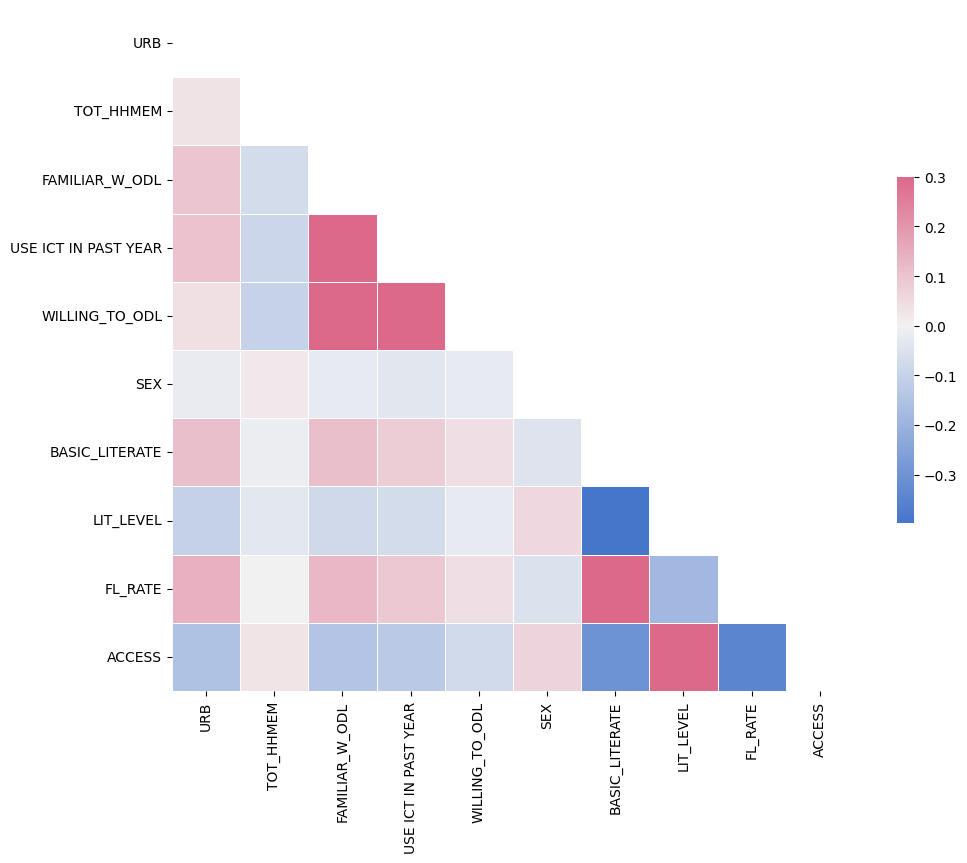
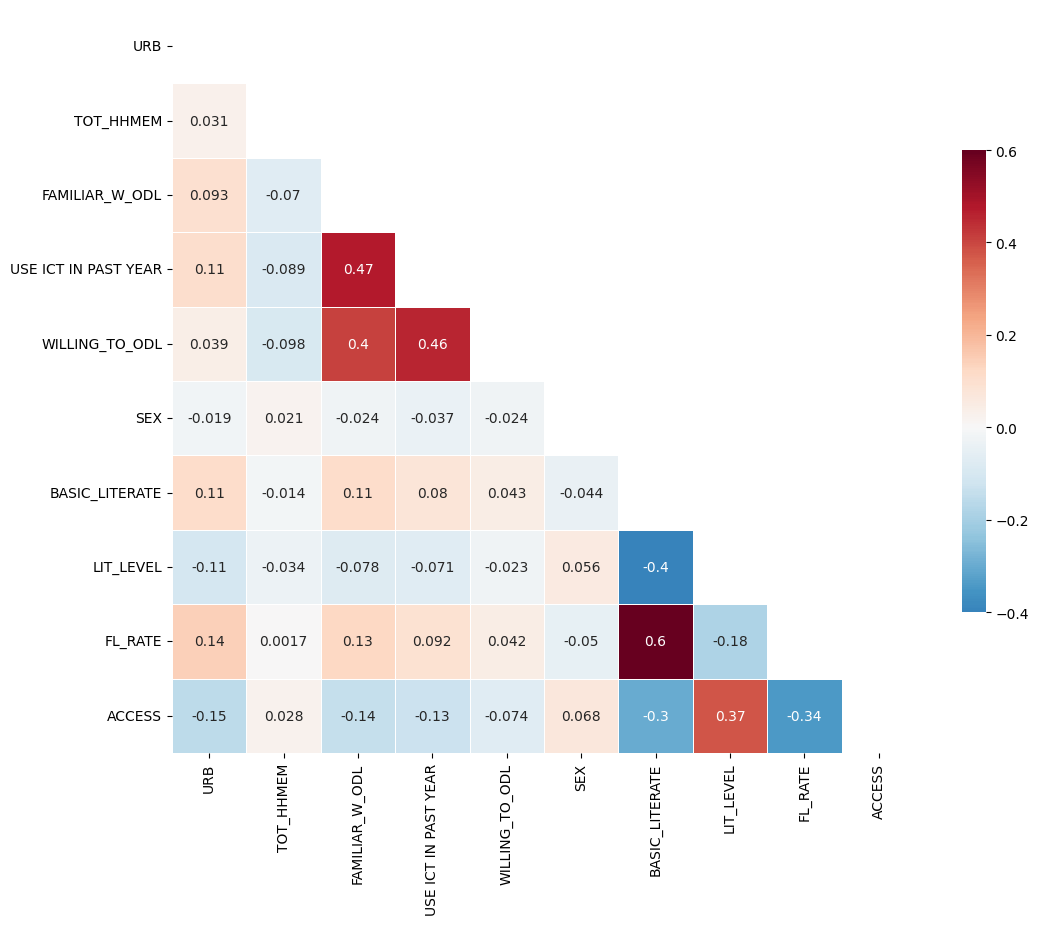
chore: change graphs for readability

diff --git a/education-app/src/app/section-5/data_analysis.tsx b/education-app/src/app/section-5/data_analysis.tsx
@@ -1,6 +1,6 @@
 import Image from "next/image";
-import Bar from './images/bar graph.jpg';
-import Choropleth from './images/choropleth.jpg';
+import Bar from './images/bar graph.png';
+import Choropleth from './images/choropleth.png';
 import Matrix from './images/correlation matrix.png';
 
 export default function DataAnalysis() {
@@ -16,10 +16,10 @@ export default function DataAnalysis() {
                 </p>
 
                 <div className="flex mt-2">
-                    <div className="relative flex-2" style={{ height: '350px', width: '60%', borderRadius: '15px', overflow: 'hidden', border: '2px solid black' }}>
+                    <div className="relative flex-2" style={{ height: '500px', width: '50%', borderRadius: '15px', overflow: 'hidden', border: '2px solid black' }}>
                         <Image src={Bar} alt="Bar Graph" layout="fill" objectFit="contain" />
                     </div>
-                    <div className="relative flex-1 ml-4" style={{ height: '350px', borderRadius: '15px', overflow: 'hidden', border: '2px solid black' }}>
+                    <div className="relative flex-1 ml-4" style={{ height: '500px', borderRadius: '15px', overflow: 'hidden', border: '2px solid black' }}>
                         <Image src={Choropleth} alt="Choropleth Map" layout="fill" objectFit="contain" />
                     </div>
                 </div>

diff --git a/education-app/src/app/section-1/intro.tsx b/education-app/src/app/section-1/intro.tsx
@@ -7,20 +7,23 @@ export default function Introduction() {
   return (
     <>
       <div className="mt-10 px-36">
+
         <p className="text-center text-black text-3xl max-w-5xl m-auto mt-2.5 mix-blend-darken">
           Hi! We are
         </p>
         
-        <div className="flex place-content-center">
-        <Image
-            src={headlineEffect}
-            alt="Example Image"
-            
-            className="w-1/2 absolute mix-blend-lighten"
-          />
+        <div className="transition-opacity ease-in duration-700">
+          <div className="flex place-content-center">
+          <Image
+              src={headlineEffect}
+              alt="Example Image"
+              
+              className="w-1/2 absolute mix-blend-lighten"
+              unoptimized
+            />
+          </div>
+          <h1 className="text-black text-9xl font-bold italic m-0 text-center">E-YOUTH</h1>
         </div>
-        <h1 className="text-black text-9xl font-bold italic m-0 text-center">E-YOUTH</h1>
-
         {/* TO-DO: Add text transition/transformation turning E-Youth to Education of the Youth*/}
         <p className="text-sky-500 font-bold text-5xl italic m-1 text-center mix-blend-darken">EDUCATION OF THE YOUTH</p>
         

diff --git a/education-app/src/app/section-4/data_processing.tsx b/education-app/src/app/section-4/data_processing.tsx
@@ -1,8 +1,8 @@
 export default function DataProcessing() {
     return (
     <>
-        <div className="text-center">
-            <h1 className="text-sky-500 font-bold text-3xl italic m-1">
+        <div className="mt-10 pl-36 pr-36 text-left">
+            <h1 className="text-black font-bold text-3xl italic m-1">
                 What Did We Do With the Given Data?
             </h1>
             <h2>

diff --git a/education-app/src/app/page.tsx b/education-app/src/app/page.tsx
@@ -21,6 +21,8 @@ export default function Home() {
 
       <DataCollection />
 
+      <DataProcessing />
+
       <DataAnalysis />
       
       <MeetTeam />
